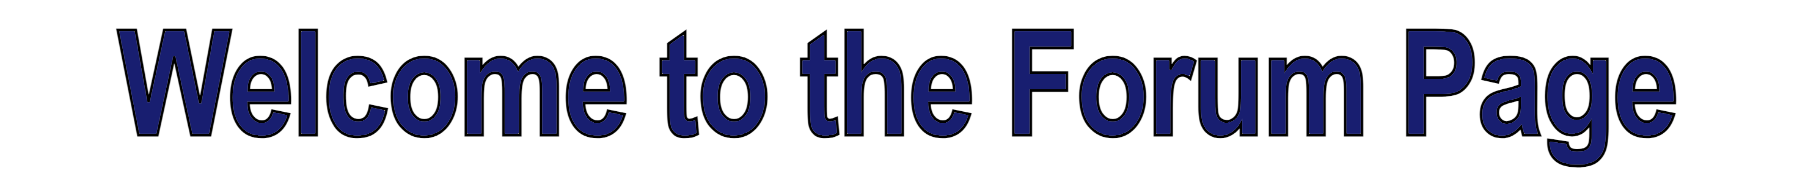
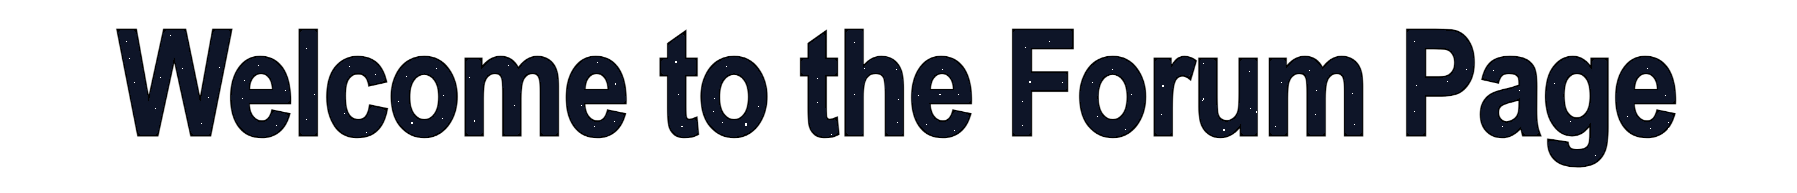
Layout changes

Changed region(s): [[0.0623, 0.1554, 0.9349, 0.8705]]

diff --git a/Astronomyfi/Web/Astronomyfi.Web/wwwroot/css/site.min.css b/Astronomyfi/Web/Astronomyfi.Web/wwwroot/css/site.min.css
@@ -1,1 +1,1 @@
-a.navbar-brand{white-space:normal;text-align:center;word-break:break-all}a{color:#0366d6}.navbar{background-color:#000}ul{list-style-type:none}.btn-primary{color:#fff;background-color:#1b6ec2;border-color:#1861ac}.nav-pills .nav-link.active,.nav-pills .show>.nav-link{color:#fff;background-color:#1b6ec2;border-color:#1861ac}html{font-size:14px}@media(min-width:768px){html{font-size:16px}}.border-top{border-top:1px solid #e5e5e5}.border-bottom{border-bottom:1px solid #e5e5e5}.box-shadow{box-shadow:0 .25rem .75rem rgba(0,0,0,.05)}.search-box{text-align:right}button.accept-policy{font-size:1rem;line-height:inherit}html{position:relative;min-height:100%}body{margin-bottom:60px}.footer{position:absolute;bottom:0;width:100%;white-space:nowrap;line-height:60px;background-color:#000}body{font-family:Roboto,"Helvetica Neue",Arial,sans-serif}.svcs-container{margin-top:60px}.service-icon{text-align:center;height:176px}.service-icon img{display:inline-block;max-width:180px;height:176px;vertical-align:middle;padding:20px 0}h3{font-size:20px;margin:35px 0 25px;font-weight:800;color:#3d3d3d;text-transform:uppercase}.hoverServices:hover{background-color:#f2f2f2}@media(min-width:978px){.services-box{margin-right:0;border:1px solid #e5e5e5;border-left:0;border-top:0;height:515px}.services-box.last{border-right:0}}.category{margin-top:20px;margin-bottom:100px}
+a.navbar-brand{white-space:normal;text-align:center;word-break:break-all}a{color:#0366d6}.navbar{background-image:url('../assets/img/background.jpg')}ul{list-style-type:none}.btn-primary{color:#fff;background-color:#1b6ec2;border-color:#1861ac}.nav-pills .nav-link.active,.nav-pills .show>.nav-link{color:#fff;background-color:#1b6ec2;border-color:#1861ac}html{font-size:14px}@media(min-width:768px){html{font-size:16px}}.border-top{border-top:1px solid #e5e5e5}.border-bottom{border-bottom:1px solid #e5e5e5}.box-shadow{box-shadow:0 .25rem .75rem rgba(0,0,0,.05)}.search-box{text-align:right}button.accept-policy{font-size:1rem;line-height:inherit}html{position:relative;min-height:100%}body{margin-bottom:60px}.footer{position:absolute;bottom:0;width:100%;white-space:nowrap;line-height:60px;background-image:url('../assets/img/background.jpg')}body{font-family:Roboto,"Helvetica Neue",Arial,sans-serif}.svcs-container{margin-top:60px}.service-icon{text-align:center;height:176px}.service-icon img{display:inline-block;max-width:180px;height:176px;vertical-align:middle;padding:20px 0}h3{font-size:20px;margin:35px 0 25px;font-weight:800;color:#3d3d3d;text-transform:uppercase}.hoverServices:hover{background-color:#f2f2f2}@media(min-width:978px){.services-box{margin-right:0;border:1px solid #e5e5e5;border-left:0;border-top:0;height:515px}.services-box.last{border-right:0}}.category{margin-top:20px;margin-bottom:100px}th{color:#fff;background-image:url('../assets/img/background.jpg')}

diff --git a/Astronomyfi/Web/Astronomyfi.Web/wwwroot/css/site.css b/Astronomyfi/Web/Astronomyfi.Web/wwwroot/css/site.css
@@ -13,7 +13,7 @@ a {
 }
 
 .navbar {
-    background-color: black;
+    background-image: url('../assets/img/background.jpg');
 }
 
 ul {
@@ -83,7 +83,7 @@ body {
     width: 100%;
     white-space: nowrap;
     line-height: 60px; /* Vertically center the text there */
-    background-color: black;
+    background-image: url('../assets/img/background.jpg');
 }
 
 body {
@@ -137,4 +137,9 @@ h3 {
 .category {
     margin-top: 20px;
     margin-bottom: 100px;
+}
+
+th {
+    color: white;
+    background-image: url('../assets/img/background.jpg');
 }
